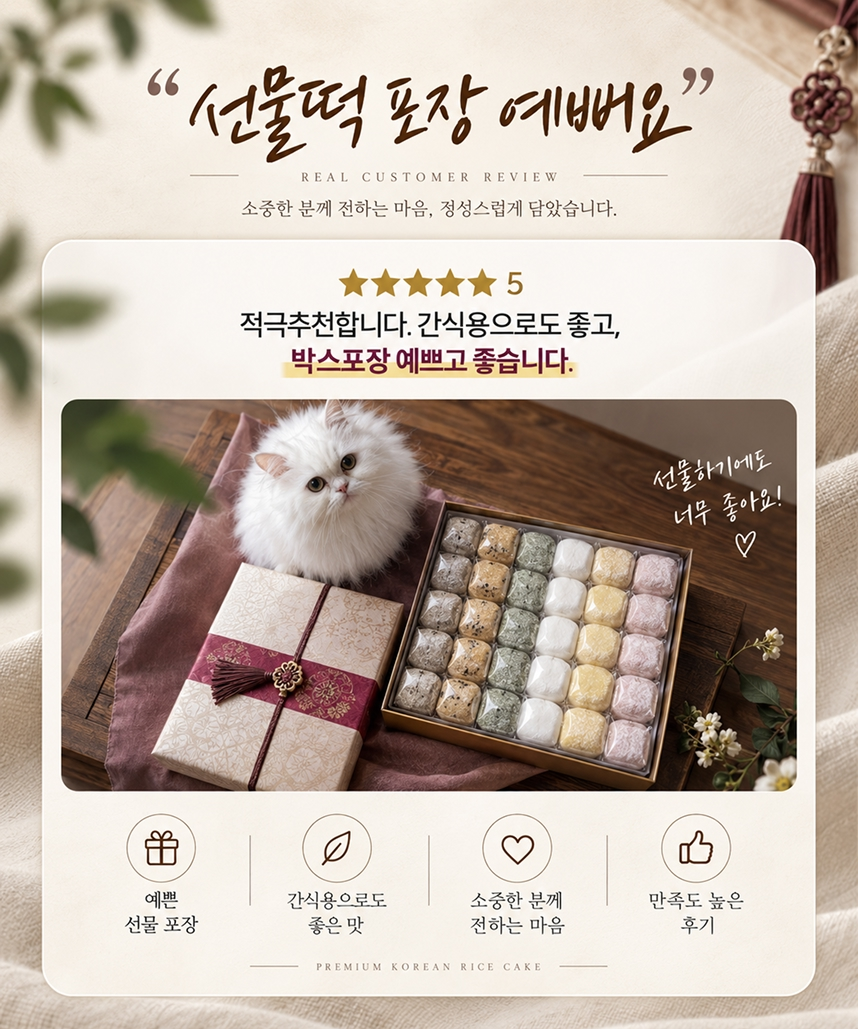
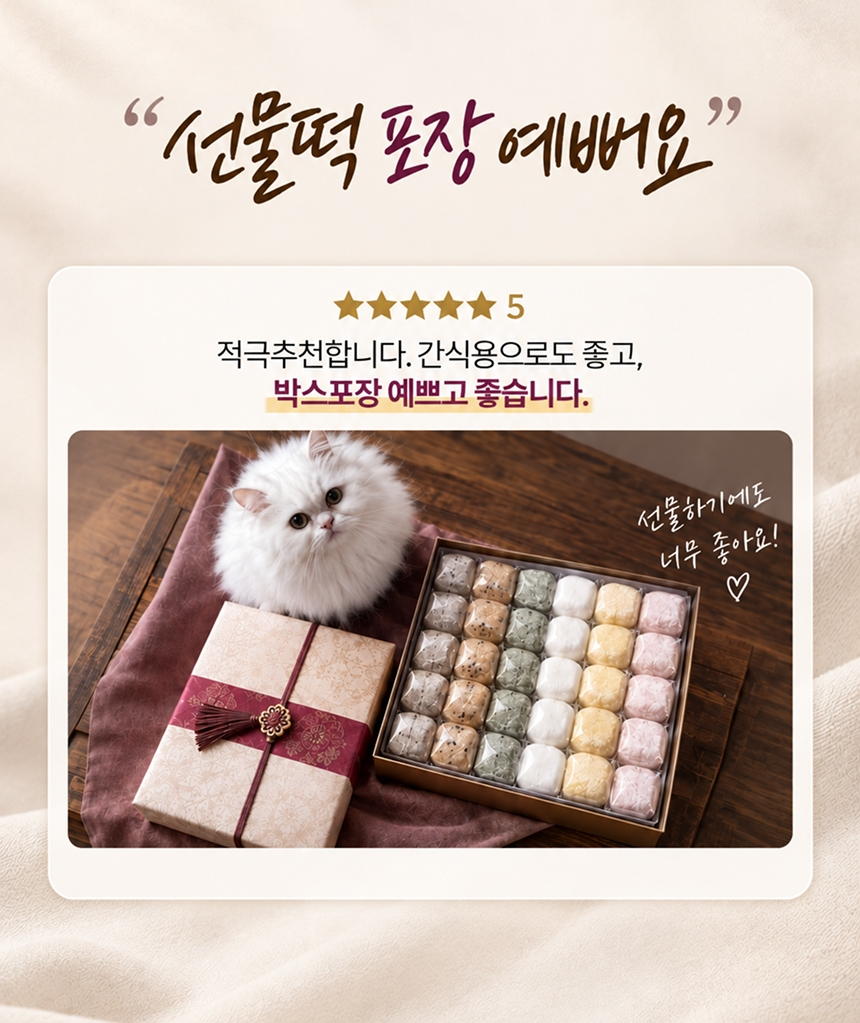
bug 추가

diff --git a/index.html b/index.html
@@ -1781,8 +1781,8 @@
           <a class="rice-gift__thumb rice-gift__thumb--main" href="./images/shop/thum_gift01.jpg" target="_blank" rel="noopener">
             <img src="./images/shop/thum_gift01.jpg" alt="떡선물세트 썸네일 01" loading="lazy" />
           </a>
-          <a class="rice-gift__thumb" href="./images/shop/thum_gift02.png" target="_blank" rel="noopener">
-            <img src="./images/shop/thum_gift02.png" alt="떡선물세트 썸네일 02" loading="lazy" />
+          <a class="rice-gift__thumb" href="./images/shop/thum_gift02.jpg" target="_blank" rel="noopener">
+            <img src="./images/shop/thum_gift02.jpg" alt="떡선물세트 썸네일 02" loading="lazy" />
           </a>
           <a class="rice-gift__thumb" href="./images/shop/thum_gift03.jpg" target="_blank" rel="noopener">
             <img src="./images/shop/thum_gift03.jpg" alt="떡선물세트 썸네일 03" loading="lazy" />
@@ -1790,7 +1790,7 @@
         </div>
 
         <div class="project__info" data-reveal>
-          <h2 class="project__title">떡선물세트 커머스</h2>
+          <h2 class="project__title">커머스 썸네일&상세페이지(식품)</h2>
 
           <dl class="project__list">
             <div class="project__row">
@@ -1799,7 +1799,7 @@
             </div>
             <div class="project__row">
               <dt>Project Purpose</dt>
-              <dd>명절·기념일 선물용 떡세트의 고급감과 구성 정보를 직관적으로 전달하는 커머스 콘텐츠 제작</dd>
+              <dd>명절·기념일 선물용 떡세트의 고급감과 <br>구성 정보를 다채로운 디자인으로 구현</dd>
             </div>
             <div class="project__row">
               <dt>Font Style</dt>
@@ -1809,9 +1809,9 @@
               <dt>Design Color</dt>
               <dd>
                 <ul class="swatches">
-                  <li style="background:#7a3322"></li>
-                  <li style="background:#d9a441"></li>
-                  <li style="background:#f7efe4"></li>
+                  <li style="background:#5D153A"></li>
+                  <li style="background:#61350A"></li>
+                  <li style="background:#F5EADA"></li>
                 </ul>
               </dd>
             </div>
@@ -1826,12 +1826,77 @@
             </div>
             <div class="project__row">
               <dt>Output Size</dt>
-              <dd>오픈마켓 썸네일 441*441px / 상세페이지 860px 기준</dd>
+              <dd>썸네일 500*500px / 상세페이지 860px 기준</dd>
             </div>
           </dl>
 
           <div class="project__foot">
             <a class="btn-outline" href="./ricegift_detail.html" target="_blank" rel="noopener"><span class="btn-swap"><span class="btn-swap-en">View More</span><span class="btn-swap-ko">상세페이지</span></span> <span aria-hidden="true">→</span></a>
+          </div>
+        </div>
+      </div>
+    </section>
+
+    <!-- =====================================================
+         SECTION : PROJECT — 해충퇴치기 커머스
+         - View More 클릭 시 별도 상세페이지를 새 창으로 열기
+         ===================================================== -->
+    <section class="project project--bug-commerce" id="bugcommerce" aria-label="커머스 프로젝트 - 해충퇴치기">
+      <div class="project__inner">
+        <div class="rice-gift__visual bug-commerce__visual" data-reveal>
+          <a class="rice-gift__thumb rice-gift__thumb--main" href="./images/shop/thum_bug01.jpg" target="_blank" rel="noopener">
+            <img src="./images/shop/thum_bug01.jpg" alt="해충퇴치기 썸네일 01" loading="lazy" />
+          </a>
+          <a class="rice-gift__thumb" href="./images/shop/thum_bug02.jpg" target="_blank" rel="noopener">
+            <img src="./images/shop/thum_bug02.jpg" alt="해충퇴치기 썸네일 02" loading="lazy" />
+          </a>
+          <a class="rice-gift__thumb" href="./images/shop/thum_bug03.jpg" target="_blank" rel="noopener">
+            <img src="./images/shop/thum_bug03.jpg" alt="해충퇴치기 썸네일 03" loading="lazy" />
+          </a>
+        </div>
+
+        <div class="project__info" data-reveal>
+          <h2 class="project__title">커머스 썸네일&amp;상세페이지(가전)</h2>
+
+          <dl class="project__list">
+            <div class="project__row">
+              <dt>Contribution</dt>
+              <dd>상품 썸네일, 상세페이지 디자인 100%</dd>
+            </div>
+            <div class="project__row">
+              <dt>Project Purpose</dt>
+              <dd>제품 기능과 사용 환경을 명확하게 보여주고, <br>생활가전 제품의 기능성을 직관적으로 표현</dd>
+            </div>
+            <div class="project__row">
+              <dt>Font Style</dt>
+              <dd>Pretendard Variable</dd>
+            </div>
+            <div class="project__row">
+              <dt>Design Color</dt>
+              <dd>
+                <ul class="swatches">
+                  <li style="background:#131A21"></li>
+                  <li style="background:#6DF7FD"></li>
+                </ul>
+              </dd>
+            </div>
+            <div class="project__row">
+              <dt>Tools Used</dt>
+              <dd>
+                <ul class="tools tools--sm">
+                  <li class="tool"><img src="./images/pro_ico01.png" alt="Adobe Photoshop" /></li>
+                  <li class="tool"><img src="./images/pro_ico02.png" alt="Adobe Illustrator" /></li>
+                </ul>
+              </dd>
+            </div>
+            <div class="project__row">
+              <dt>Output Size</dt>
+              <dd>썸네일 500*500px / 상세페이지 860px 기준</dd>
+            </div>
+          </dl>
+
+          <div class="project__foot">
+            <a class="btn-outline" href="./bug_detail.html" target="_blank" rel="noopener"><span class="btn-swap"><span class="btn-swap-en">View More</span><span class="btn-swap-ko">상세페이지</span></span> <span aria-hidden="true">→</span></a>
           </div>
         </div>
       </div>

diff --git a/bug_detail.html b/bug_detail.html
@@ -1,0 +1,48 @@
+<!DOCTYPE html>
+<html lang="ko">
+<head>
+  <meta charset="UTF-8" />
+  <meta name="viewport" content="width=device-width, initial-scale=1.0" />
+  <title>해충퇴치기 상세페이지 | PORTFOLIO</title>
+  <meta name="description" content="해충퇴치기 커머스 상세페이지 디자인" />
+
+  <link rel="preconnect" href="https://cdn.jsdelivr.net" crossorigin />
+  <link
+    rel="stylesheet"
+    href="https://cdn.jsdelivr.net/gh/orioncactus/pretendard@v1.3.9/dist/web/static/pretendard.min.css"
+  />
+  <link rel="stylesheet" href="./css/variables.css" />
+  <link rel="stylesheet" href="./css/common.css" />
+  <link rel="stylesheet" href="./css/main.css" />
+</head>
+<body>
+  <main id="main">
+    <section class="rice-gift-detail bug-detail" aria-label="해충퇴치기 상세페이지">
+      <div class="rice-gift-detail__inner">
+        <header class="rice-gift-detail__head">
+          <a class="rice-gift-detail__back" href="./index.html#bugcommerce">← Back to Portfolio</a>
+          <p class="rice-gift-detail__eyebrow">COMMERCE DETAIL PAGE</p>
+          <h1 class="rice-gift-detail__title">해충퇴치기 상세페이지</h1>
+        </header>
+
+        <div class="rice-gift-detail__pages">
+          <a class="rice-gift-detail__page" href="./images/shop/bug_01.jpg" target="_blank" rel="noopener"><img src="./images/shop/bug_01.jpg" alt="해충퇴치기 상세페이지 01" /></a>
+          <a class="rice-gift-detail__page" href="./images/shop/bug_02.jpg" target="_blank" rel="noopener"><img src="./images/shop/bug_02.jpg" alt="해충퇴치기 상세페이지 02" loading="lazy" /></a>
+          <a class="rice-gift-detail__page" href="./images/shop/bug_03.jpg" target="_blank" rel="noopener"><img src="./images/shop/bug_03.jpg" alt="해충퇴치기 상세페이지 03" loading="lazy" /></a>
+          <a class="rice-gift-detail__page" href="./images/shop/bug_04.jpg" target="_blank" rel="noopener"><img src="./images/shop/bug_04.jpg" alt="해충퇴치기 상세페이지 04" loading="lazy" /></a>
+          <a class="rice-gift-detail__page" href="./images/shop/bug_05.jpg" target="_blank" rel="noopener"><img src="./images/shop/bug_05.jpg" alt="해충퇴치기 상세페이지 05" loading="lazy" /></a>
+          <a class="rice-gift-detail__page" href="./images/shop/bug_06.jpg" target="_blank" rel="noopener"><img src="./images/shop/bug_06.jpg" alt="해충퇴치기 상세페이지 06" loading="lazy" /></a>
+          <a class="rice-gift-detail__page" href="./images/shop/bug_07.jpg" target="_blank" rel="noopener"><img src="./images/shop/bug_07.jpg" alt="해충퇴치기 상세페이지 07" loading="lazy" /></a>
+          <a class="rice-gift-detail__page" href="./images/shop/bug_08.jpg" target="_blank" rel="noopener"><img src="./images/shop/bug_08.jpg" alt="해충퇴치기 상세페이지 08" loading="lazy" /></a>
+          <a class="rice-gift-detail__page" href="./images/shop/bug_09.jpg" target="_blank" rel="noopener"><img src="./images/shop/bug_09.jpg" alt="해충퇴치기 상세페이지 09" loading="lazy" /></a>
+          <a class="rice-gift-detail__page" href="./images/shop/bug_10.jpg" target="_blank" rel="noopener"><img src="./images/shop/bug_10.jpg" alt="해충퇴치기 상세페이지 10" loading="lazy" /></a>
+          <a class="rice-gift-detail__page" href="./images/shop/bug_11.jpg" target="_blank" rel="noopener"><img src="./images/shop/bug_11.jpg" alt="해충퇴치기 상세페이지 11" loading="lazy" /></a>
+          <a class="rice-gift-detail__page" href="./images/shop/bug_12.jpg" target="_blank" rel="noopener"><img src="./images/shop/bug_12.jpg" alt="해충퇴치기 상세페이지 12" loading="lazy" /></a>
+          <a class="rice-gift-detail__page" href="./images/shop/bug_13.jpg" target="_blank" rel="noopener"><img src="./images/shop/bug_13.jpg" alt="해충퇴치기 상세페이지 13" loading="lazy" /></a>
+          <a class="rice-gift-detail__page" href="./images/shop/bug_14.jpg" target="_blank" rel="noopener"><img src="./images/shop/bug_14.jpg" alt="해충퇴치기 상세페이지 14" loading="lazy" /></a>
+        </div>
+      </div>
+    </section>
+  </main>
+</body>
+</html>

diff --git a/css/main.css b/css/main.css
@@ -526,10 +526,29 @@ html {
 .rice-gift__thumb:hover img {
   transform: scale(1.035);
 }
-
+.project--bug-commerce {
+  background: linear-gradient(145deg, #f3fbfa 0%, #e7f0f3 100%);
+}
+.bug-commerce__visual {
+  background:
+    linear-gradient(90deg, rgba(16, 43, 60, 0.1) 1px, transparent 1px),
+    linear-gradient(0deg, rgba(16, 43, 60, 0.08) 1px, transparent 1px);
+  background-size: 42px 42px, 42px 42px;
+}
+.project--bug-commerce .rice-gift__thumb {
+  background: #e8f3f1;
+  border-color: rgba(16, 43, 60, 0.14);
+  box-shadow: 0 24px 60px rgba(16, 43, 60, 0.15);
+}
+.project--bug-commerce .rice-gift__thumb:hover {
+  box-shadow: 0 32px 72px rgba(16, 43, 60, 0.2);
+}
 .rice-gift-detail {
   padding-block: clamp(96px, 10vw, 160px);
   background: #f8f5ef;
+}
+.bug-detail {
+  background: #edf6f5;
 }
 .rice-gift-detail__inner {
   max-width: 1040px;
@@ -549,6 +568,13 @@ html {
 }
 .rice-gift-detail__back:hover {
   color: var(--color-main);
+}
+.bug-detail .rice-gift-detail__back,
+.bug-detail .rice-gift-detail__eyebrow {
+  color: #1f8a70;
+}
+.bug-detail .rice-gift-detail__back:hover {
+  color: #102b3c;
 }
 .rice-gift-detail__eyebrow {
   color: #7a3322;
